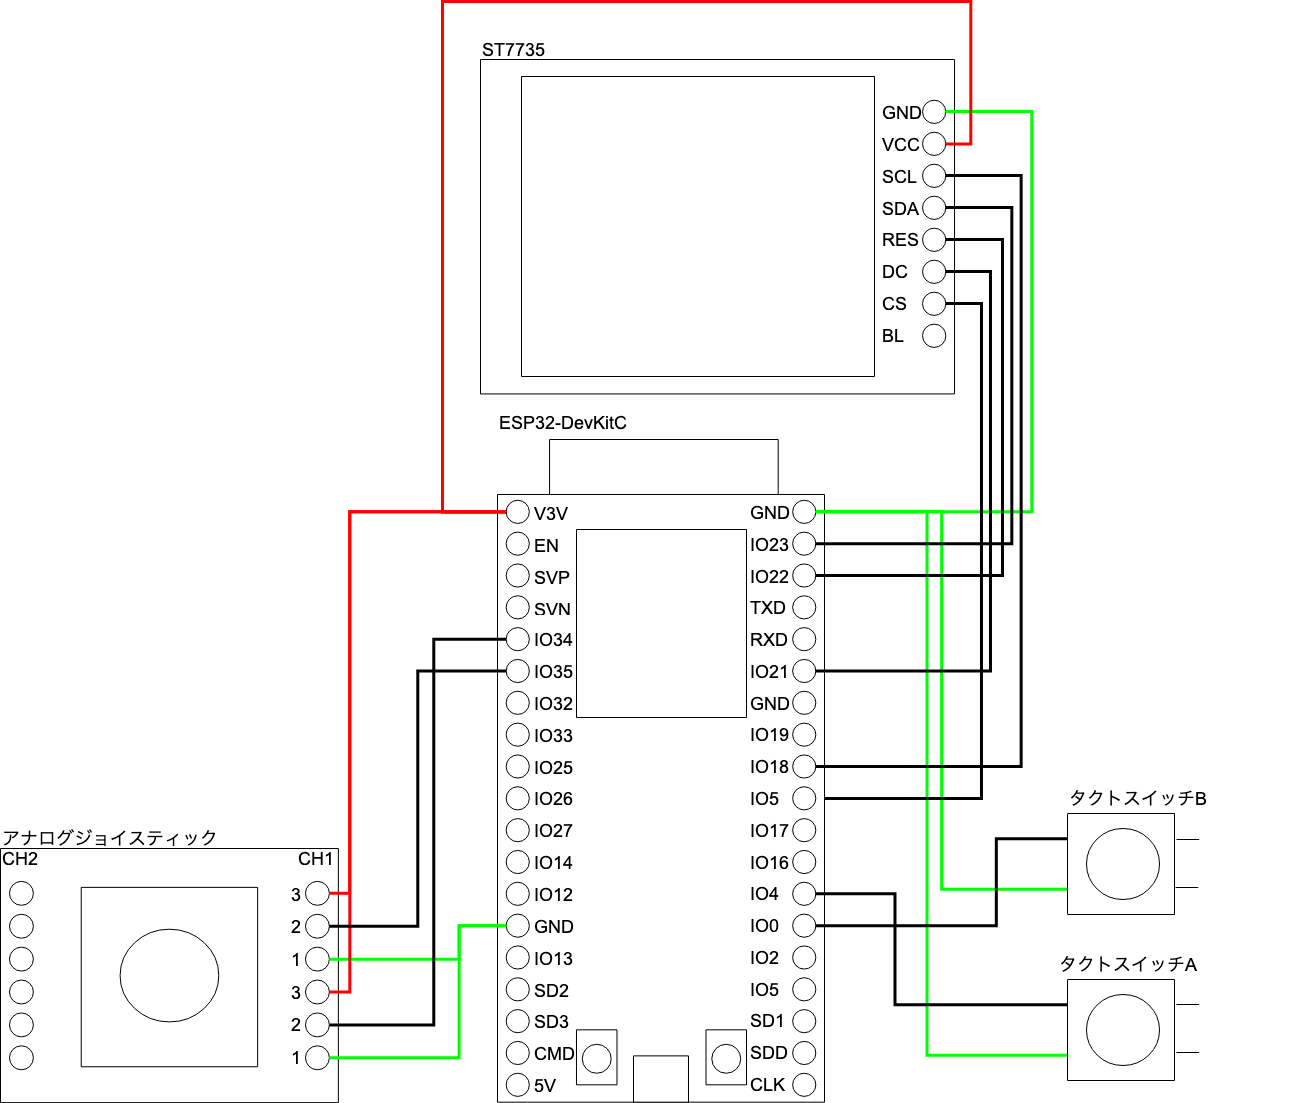
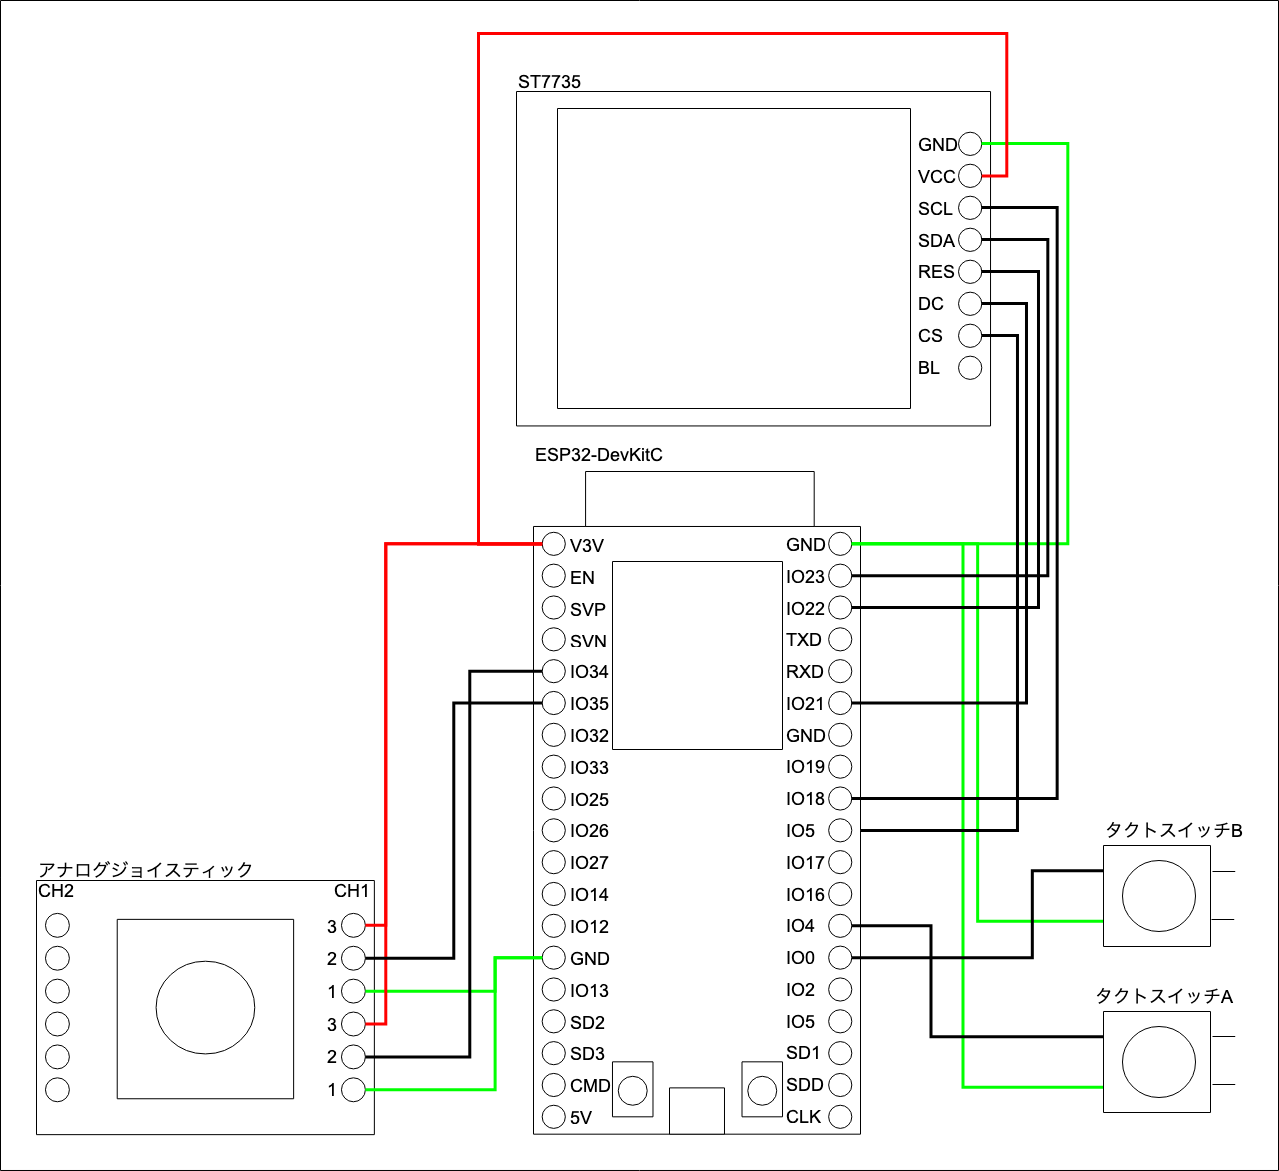
add docs

diff --git a/README.md b/README.md
@@ -1,0 +1,115 @@
+# ESP Console
+DIY Game Console with ESP32  
+紹介動画: https://youtu.be/rkK88xarytI
+
+## これはなに？
+Lua言語で簡単にゲームプログラミングができ、
+WEB APIで作ったゲームを実機に転送、実行が可能なゲーム機のファームウェアです。
+
+ゲーム機自体も、電子部品をブレッドボード上で接続するだけなので、簡単に作ることができます。
+
+## 必要な電子部品
+- ESP32-DevKitC
+  - http://akizukidenshi.com/catalog/g/gM-11819/
+- ブレッドボード(2つ必要です。)
+  - http://akizukidenshi.com/catalog/g/gP-05294/
+- ジャンパーワイヤー
+  - http://akizukidenshi.com/catalog/g/gC-05159/
+- タクトスイッチ
+  - http://akizukidenshi.com/catalog/g/gP-02561/
+- カラー液晶 ST7735
+  - https://amzn.to/2McLzbK
+- アナログジョイスティック
+  - http://akizukidenshi.com/catalog/g/gK-10263/
+
+### 部品と回路図の解説動画はこちら
+https://youtu.be/0KpF7hCuopo
+
+## 回路図
+![回路図](./docs/imgs/circuit.png)
+
+## ファームウェア書き込み
+
+1. Arduino IDEのインストール  
+こちらよりダウンロードし、インストールします。
+https://www.arduino.cc/en/main/software
+
+2. arduino-esp32 の設定  
+こちらの手順にしたがってArduino IDEにarduino-esp32をインストールします。
+https://github.com/espressif/arduino-esp32/blob/master/docs/arduino-ide/boards_manager.md
+
+3. このリポジトリをダウンロード  
+「Clone or Download」ボタンをクリックし、「Download ZIP」をクリックすると、ダウンロードできます。
+
+4. Dependency Arduino librariesのインストール  
+次章に記載のある「Dependency Arduino libraries」のライブラリをインストールします。  
+ESPAsyncWebServer, AsyncTCP はリンクから3の手順と同じく、ZIPファイルをダウンロード。  
+解凍したファイルをlibrariesフォルダにコピーしてください。  
+そのほかは、Arduino IDEのメニューから、[スケッチ]->[ライブラリをインクルード]->[ライブラリを管理...]からライブラリ名で探してインストールしてください。
+
+5. ファームウェア書き込み
+ESP32-DevKitCとPCをUSBケーブルで接続し、  
+3でダウンロードしたファイルを解凍し、espconsole.inoをArduino IDEで開き、  
+「マイコンボードに書き込む」（アイコンが右矢印）ボタンを押して、ファームウェアを書き込みます。  
+書き込みに成功すれば、液晶にWIFI接続設定画面が表示されます。
+
+## Dependency Arduino libraries
+- Adafruit_GFX
+  - https://github.com/adafruit/Adafruit-GFX-Library
+- Adafruit_ST7735
+  - https://github.com/adafruit/Adafruit-ST7735-Library
+- ESPAsyncWebServer
+  - https://github.com/me-no-dev/ESPAsyncWebServer
+- AsyncTCP
+  - https://github.com/me-no-dev/AsyncTCP
+- ArduinoJson
+
+
+## ゲームAPI
+### INPUT
+- btn(button)
+- btnp(button)
+- btnr(button)
+- analogX()
+- analogY()
+
+### buttons
+- BTN_A
+- BTN_B
+- BNT_UP
+- BTN_DOWN
+- BTN_LEFT
+- BTN_RIGHT
+
+### Graphics
+- cls(color)
+- pix(x, y, color)
+- line(x1, y1, x2, y2, color)
+- rect(x, y, w, h, color) -- 矩形（塗りつぶし）
+- rectb(x, y, w, h, color) -- 輪郭線
+- circ(x, y, r, color)
+- circb(x, y, r, color)
+- text(x, y, s, color)
+
+### colors
+- COLOR_WHITE
+- COLOR_BLACK
+- COLOR_RED
+- COLOR_GREEN
+- COLOR_BLUE
+- COLOR_MAGENTA
+- COLOR_CYAN
+- COLOR_YELLOW
+
+色指定は、BGR565です。
+
+## Web API
+
+## upload file
+curl -X POST http://espconsole.local/upload -F "file=@input_test.lua"
+
+## delete file
+curl -X POST http://espconsole.local/delete -F "file=/test3.lua"
+
+## list files
+curl -X POST http://espconsole.local/list
